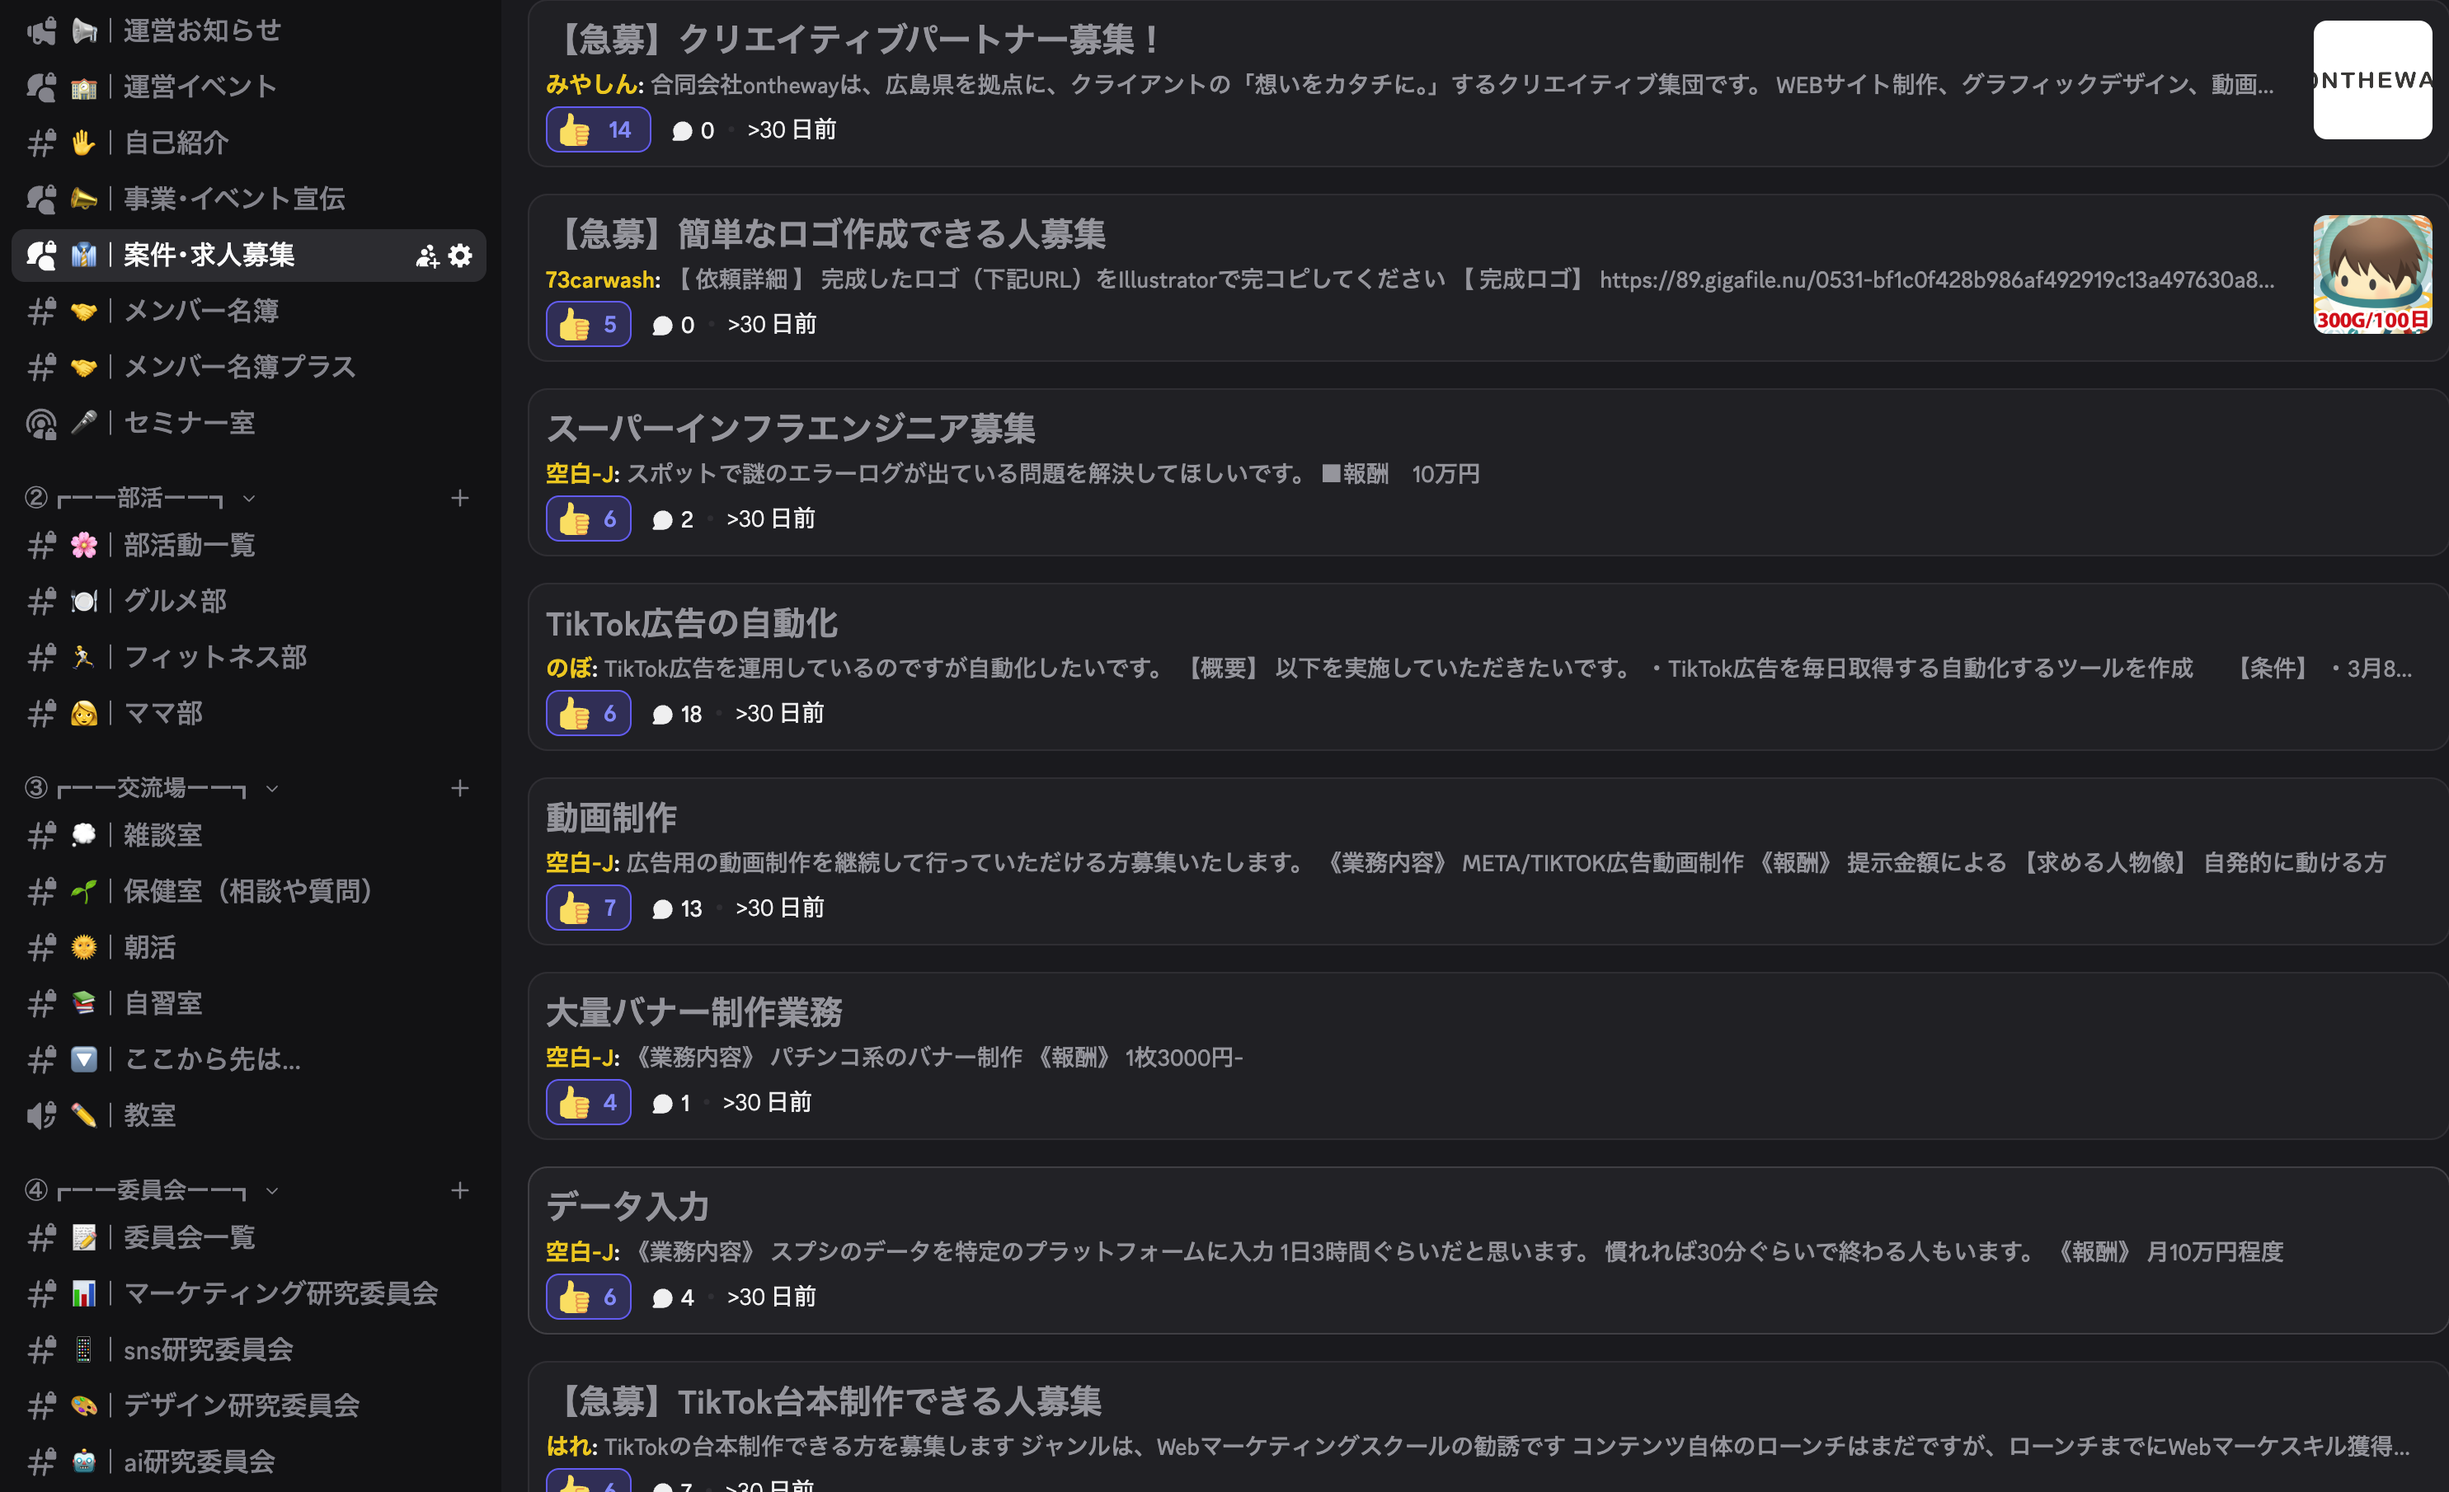
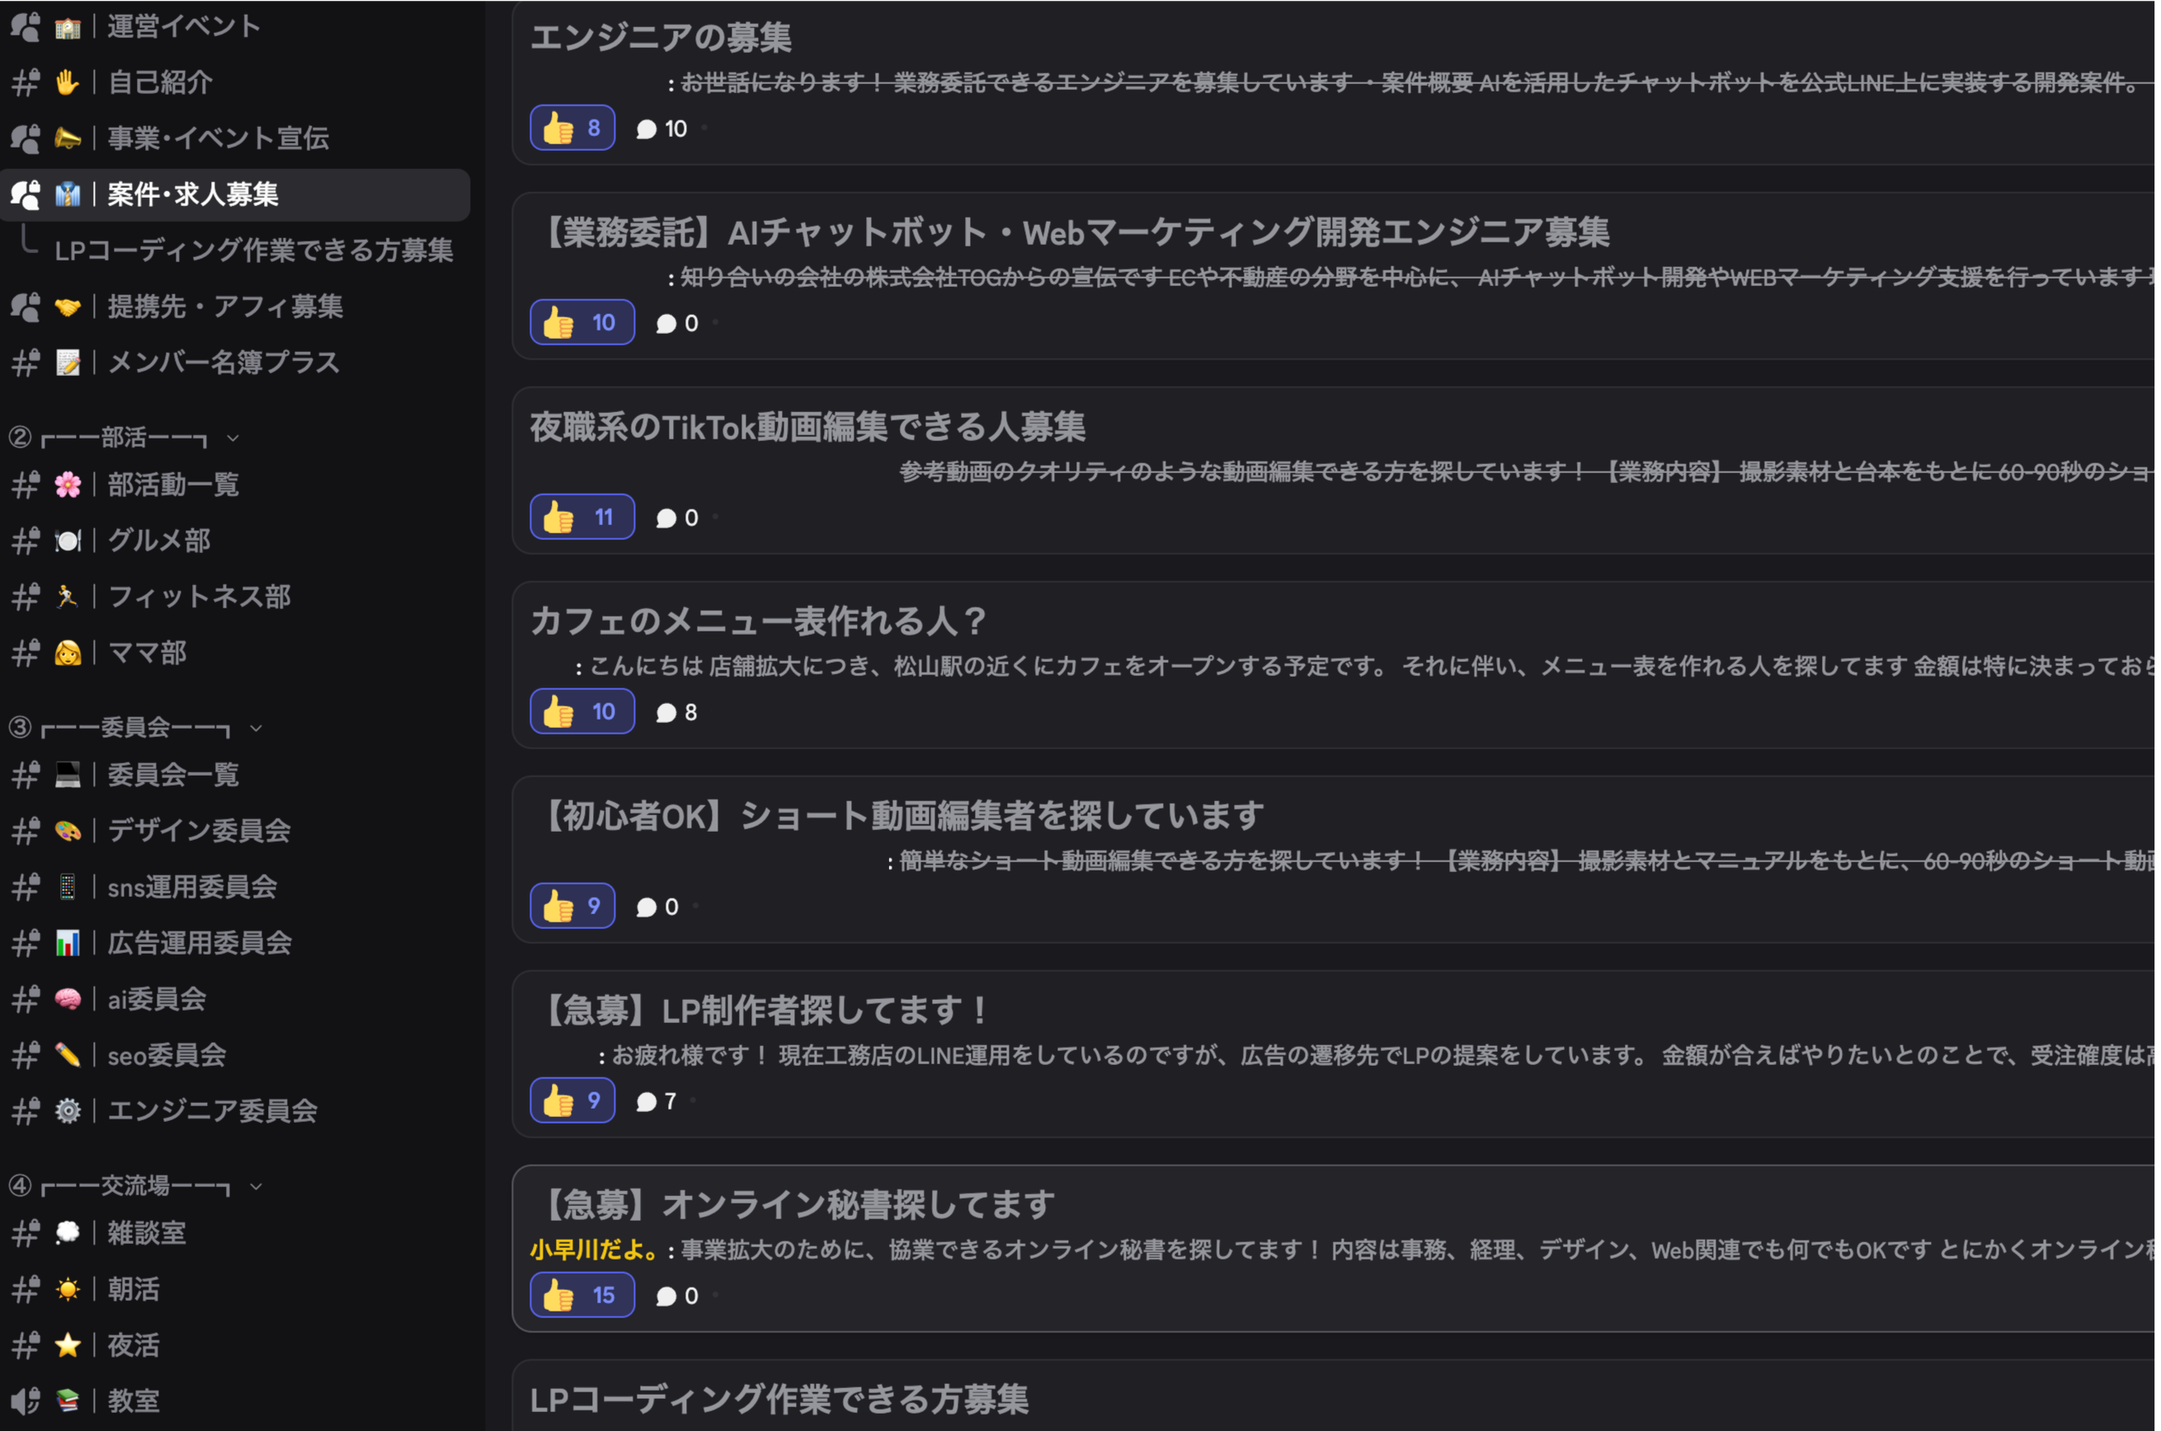
AboutSection、TopSection、MembersSection、PlansSectionのテキストを更新し、内容を明確化しました。また、スタイルを調整しました。

Changed region(s): [[0.0, 0.0, 1.0, 1.0]]

diff --git a/src/views/top/AboutSection.tsx b/src/views/top/AboutSection.tsx
@@ -32,11 +32,12 @@ export default function AboutSection() {
             <div className="bg-image absolute inset-0 m-auto max-w-6xl" />
 
             <BlackTextBox className="text-center !p-8 !py-6" isOutline={false}>
-                <h2 className="text-title2 font-nikokaku tracking-tighter">出会いから<span className="text-color2">アイデア</span>を</h2>
-                <h3 className="text-[1.1rem] tracking-[0.08rem] mt-2 font-nikokaku">
+                <h2 className="text-[2.6rem] sm:text-title2  font-nikokaku tracking-tighter"> 人脈と<span className="text-color2">スキル</span>が集う場所</h2>
+
+                {/* <h3 className="text-[1.1rem] tracking-[0.08rem] mt-2 font-nikokaku">
                     <span className="text-red-600">初心者から上級者</span>
                     が集まり、スキルアップを実現
-                </h3>
+                </h3> */}
             </BlackTextBox>
 
             <div className="flex flex-col sm:flex-row gap-12 flex-wrap justify-center">
@@ -49,7 +50,7 @@ export default function AboutSection() {
                     <div>
                         <h2 className="text-title4 font-bold">
                             <span>中四国最大級</span><br />
-                            <span >オンラインコミュニティ</span>
+                            <span >クリエイターコミュニティ</span>
                         </h2>
                         <h3 className="text-size-p mt-4 font-dot pr-24">
                             ビジネスに必要な<br />
@@ -68,8 +69,8 @@ export default function AboutSection() {
                     </div>
                     <div>
                         <h2 className="text-title4 font-bold">
-                            <span>経営者や</span><br />
-                            <span >フリーランスと共創</span>
+                            <span>企業や</span><br />
+                            <span >フリーランスと繋がる</span>
                         </h2>
                         <h3 className="text-size-p mt-4 font-dot  pr-20">
                             中四国で活躍している<br />
@@ -108,7 +109,7 @@ export default function AboutSection() {
                 <NumberBorderBox className="sm:w-1/2 md:w-1/3 h-fit p-4" numberText={Text01}>
                     <div className="flex p-2">
                         <div className="flex flex-col px-1">
-                            <h3 className="border-b border-black mr-auto pb-2 text-title4 font-bold">メンバー交流</h3>
+                            <h3 className="border-b border-black mr-auto pb-2 text-title4 font-bold">イベント交流</h3>
                             <p className="text-size-p mt-3 font-bold leading-4">
                                 交流会やトークイベントなど、<br />
                                 色んなイベントを毎月開催してます！<br />
@@ -122,10 +123,10 @@ export default function AboutSection() {
                     </div>
                 </NumberBorderBox>
 
-                <NumberBorderBox className="sm:w-1/2 md:w-1/3 h-fit p-4"  numberText={Text02}>
+                <NumberBorderBox className="sm:w-1/2 md:w-1/3 h-fit p-4" numberText={Text02}>
                     <div className="flex p-2">
                         <div className="flex flex-col px-1">
-                            <h3 className="border-b border-black mr-auto pb-2 text-title4 font-bold">宣伝や案件依頼</h3>
+                            <h3 className="border-b border-black mr-auto pb-2 text-title4 font-bold">宣伝や案件募集</h3>
                             <p className="text-size-p mt-3 font-bold leading-4">
                                 自分の事業やイベントの宣伝<br />
                                 仕事依頼や求人募集ができる！<br />
@@ -138,14 +139,14 @@ export default function AboutSection() {
                         </div>
                     </div>
                 </NumberBorderBox>
-                <NumberBorderBox className="sm:w-1/2 md:w-1/3 h-fit p-4"  numberText={Text03}>
+                <NumberBorderBox className="sm:w-1/2 md:w-1/3 h-fit p-4" numberText={Text03}>
                     <div className="flex p-2">
                         <div className="flex flex-col px-1">
-                            <h3 className="border-b border-black mr-auto pb-2 text-title4 font-bold">朝活とオフィス</h3>
+                            <h3 className="border-b border-black mr-auto pb-2 text-title4 font-bold">朝活と夜活</h3>
                             <p className="text-size-p mt-3 font-bold leading-4">
-                                毎日みんなで朝活をし<br />
-                                習慣化させ1日の生産性をUP！<br />
-                                24時間解放のバーチャルオフィスも
+                                朝活で1日の生産性がUP！<br />
+                                夜は集中力のゴールデンタイム<br />
+                                スキルを積み上げよう
                             </p>
                         </div>
                         <div className="flex flex-col px-1 w-60 sm:w-40">
@@ -154,7 +155,7 @@ export default function AboutSection() {
                     </div>
                 </NumberBorderBox>
 
-                <NumberBorderBox className="sm:w-1/2 md:w-1/3 h-fit p-4"  numberText={Text04}>
+                <NumberBorderBox className="sm:w-1/2 md:w-1/3 h-fit p-4" numberText={Text04}>
                     <div className="flex p-2">
                         <div className="flex flex-col px-1">
                             <h3 className="border-b border-black mr-auto pb-2 text-title4 font-bold">部活と委員会</h3>
@@ -171,7 +172,7 @@ export default function AboutSection() {
                     </div>
                 </NumberBorderBox>
 
-                <NumberBorderBox className="sm:w-1/2 md:w-1/3 h-fit p-4"  numberText={Text05}>
+                <NumberBorderBox className="sm:w-1/2 md:w-1/3 h-fit p-4" numberText={Text05}>
                     <div className="flex p-2">
                         <div className="flex flex-col px-1">
                             <h3 className="border-b border-black mr-auto pb-2 text-title4 font-bold">情報の相互提供</h3>
@@ -191,10 +192,10 @@ export default function AboutSection() {
                     <div className="flex flex-col p-3 items-center justify-center">
                         <div className="flex flex-col px-1 items-center justify-center text-center">
                             <h3 className="text-title3 font-bold">実際の様子</h3>
-                            <p className="text-size-p font-bold leading-4">
+                            {/* <p className="text-size-p font-bold leading-4">
                                 <Link href={resources.links.discordOfficial} target="_blank" className="text-color10 underline" rel="noopener noreferrer">Discord</Link>
                                 という無料アプリを使用します
-                            </p>
+                            </p> */}
                         </div>
                         <div className="flex flex-col px-1 w-full mt-2">
                             <Image src={About06} alt="Free Business Meeting" />

diff --git a/src/views/top/TopSection.tsx b/src/views/top/TopSection.tsx
@@ -45,13 +45,13 @@ export const TopSection = () => {
                     </div>
                 </div>
 
-                <div className="relative bg-black flex flex-col items-center justify-center gap-4 p-8">
-                    <TypeWriterScrollTriggerAnimation
+                <div className="relative bg-black flex flex-col items-center justify-center gap-4 p-8 pt-12 ">
+                    {/* <TypeWriterScrollTriggerAnimation
                         delay={500}
                         tag="h3"
                         className="py-2 w-full font-dot text-white text-center text-[1.5rem] tracking-tight leading-[2.2rem]"
                         text="そのアイデア、1人じゃ無理でした…。"
-                    />
+                    /> */}
 
                     <div className="flex w-full relative justify-center flex-col max-w-screen-lg sm:flex-row sm:justify-center sm:py-12 md:gap-4 lg:gap-8">
                         <FadeAndSlideScrollTriggerAnimation className="" delay={1.2}>
@@ -78,10 +78,14 @@ export const TopSection = () => {
                     </div>
 
                     <FadeAndSlideScrollTriggerAnimation className="relative w-full mx-auto" delay={1.5}>
-                        <Image src={Balloon} alt="吹き出し" className="mx-auto h-32" />
-                        <div className="absolute font-dot top-0 left-0 inset-0 flex justify-center items-center text-center leading-8 pb-3 text-title4">
-                            こんな悩みを持つ<br />
-                            中四国の全クリエイターへ
+                        <Image src={Balloon} alt="吹き出し" className="mx-auto h-32 w-full max-w-screen-sm" />
+                        <div className="absolute font-dot top-0 left-0 inset-0 flex justify-center items-center text-center leading-8 pb-4 text-title4">
+                            <div>
+                                <div className="leading-10 text-title3">こんな悩みを持つ</div>
+                                <div className="leading-10 text-title3">
+                                    <span className="text-red-600">クリエーター</span>と<span className="text-red-600">マーケター</span>
+                                </div>
+                            </div>
                         </div>
                     </FadeAndSlideScrollTriggerAnimation>
 

diff --git a/src/views/top/about/PlansSection.tsx b/src/views/top/about/PlansSection.tsx
@@ -27,7 +27,7 @@ export const PlansSection = () => {
                             <li>イベントの参加</li>
                             <li>地域やビジネス情報の受け取り</li>
                             <li>求人や案件、仕事への応募</li>
-                            <li>部活動やチャット交流</li>
+                            <li>チャット交流</li>
                         </ul>}
                         imageClass="h-14"
                         src={character1}
@@ -39,9 +39,9 @@ export const PlansSection = () => {
                         content={<ul className="list-[disclosure-closed] text-size2 font-bold leading-4 px-2">
                             <li>フリープラン機能</li>
                             <li>交流会が全て無料</li>
-                            <li>投稿や宣伝し放題</li>
-                            <li>メンバー情報一覧確認</li>
-                            <li>朝活、自習室、委員会の参加</li>
+                            <li>宣伝や求人の投稿し放題</li>
+                            <li>ビジネスマッチングし放題</li>
+                            <li>朝活と夜活の参加</li>
                         </ul>}
                         src={character2}
                     />

diff --git a/src/views/top/about/MembersSection.tsx b/src/views/top/about/MembersSection.tsx
@@ -54,7 +54,7 @@ const Comments = () => {
             <TypeWriterScrollTriggerAnimation
                 onComplete={() => setIndex(index + 1)}
                 span={25}
-                tag="div" className="overflow-hidden" text="ココは学園ではありません。RPGです。" />
+                tag="div" className="overflow-hidden" text="ココは中四国のクリエイターが集まる場所。" />
 
             <TypeWriterScrollTriggerAnimation
                 desableInView
